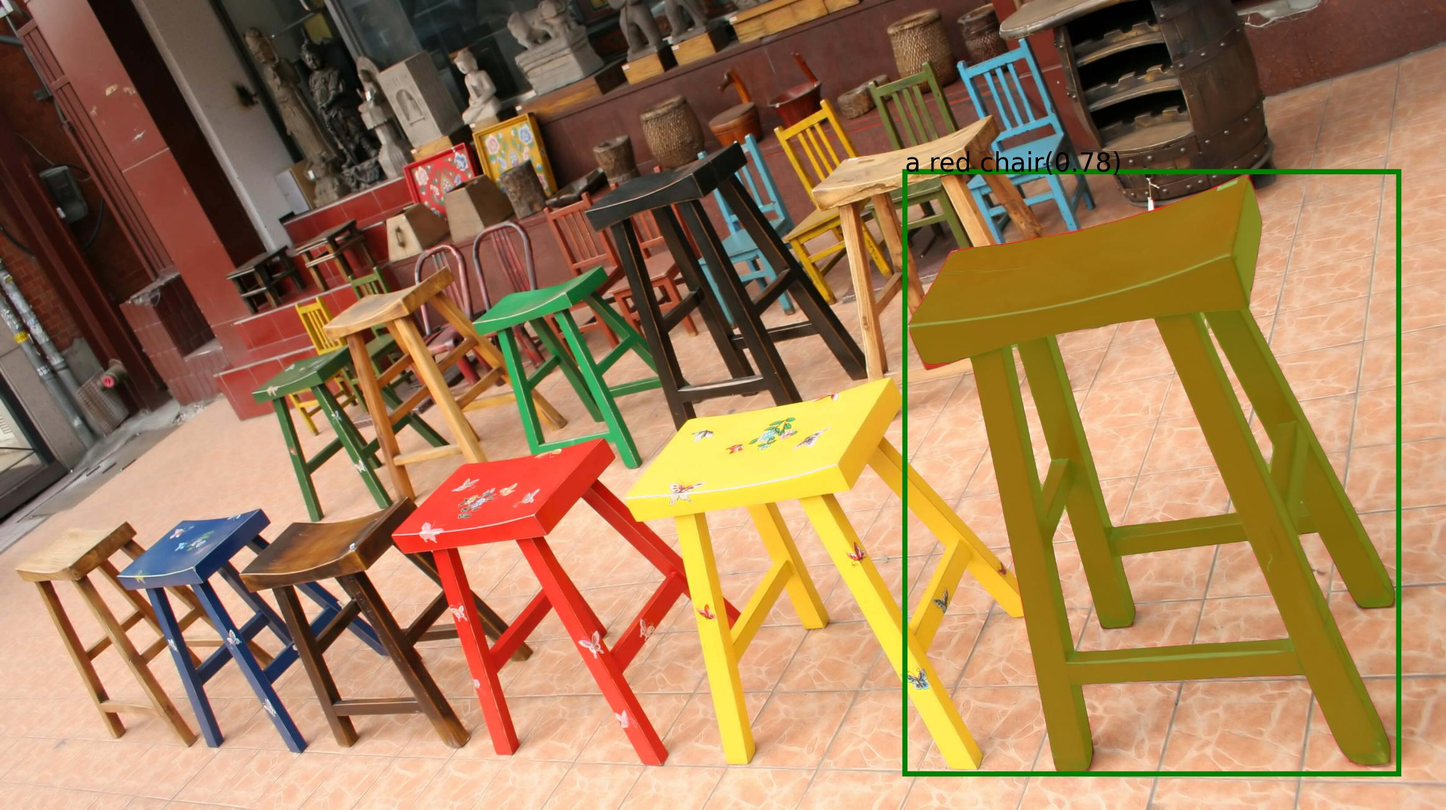
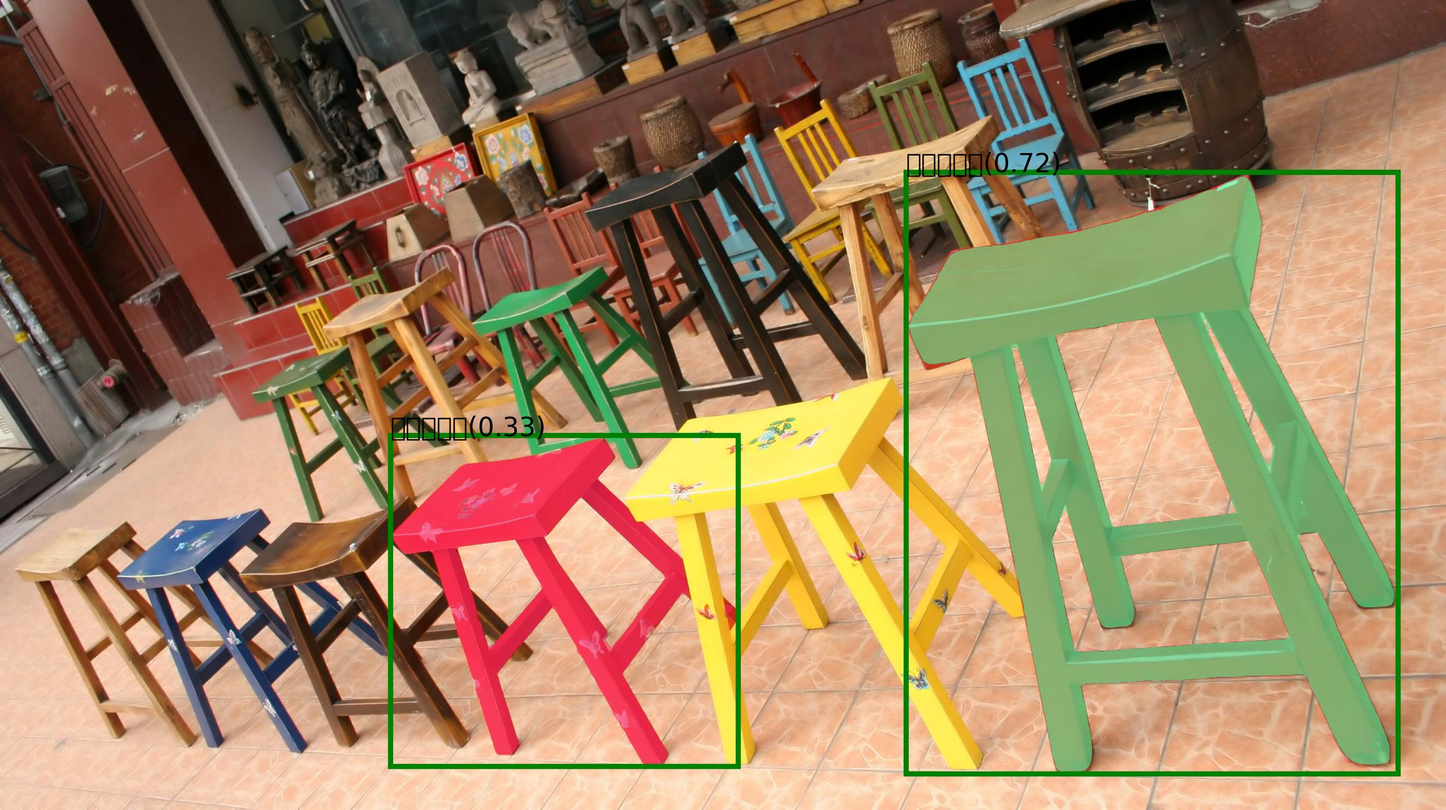
fix the font problem

Changed region(s): [[0.6194, 0.1843, 0.991, 0.9524], [0.2477, 0.4916, 0.5265, 0.9524]]

diff --git a/grounded_sam_demo.py b/grounded_sam_demo.py
@@ -9,6 +9,11 @@ import torch
 from PIL import Image
 from transformers import AutoModelForSeq2SeqLM, AutoTokenizer
 
+import matplotlib.pyplot as plt
+
+plt.rcParams['font.sans-serif'] = ['Noto Sans CJK SC']
+plt.rcParams['axes.unicode_minus'] = False
+
 sys.path.append(os.path.join(os.getcwd(), "GroundingDINO"))
 sys.path.append(os.path.join(os.getcwd(), "segment_anything"))
 
@@ -56,7 +61,7 @@ class PromptTranslator:
         translated = self.tokenizer.decode(generated[0], skip_special_tokens=True).strip()
         return translated
 
-
+# 用于修正翻译后的提示词，去掉冠词等
 def normalize_translated_prompt(original_prompt, translated_prompt):
     prompt = translated_prompt.strip()
     prompt = re.sub(r"\s+", " ", prompt)
@@ -71,7 +76,7 @@ def normalize_translated_prompt(original_prompt, translated_prompt):
         prompt = f"{prompt}s"
     return prompt
 
-
+# 保证标注框上的标签显示原始的提示词
 def relabel_phrases_with_original_prompt(pred_phrases, original_prompt):
     relabeled = []
     for phrase in pred_phrases:
